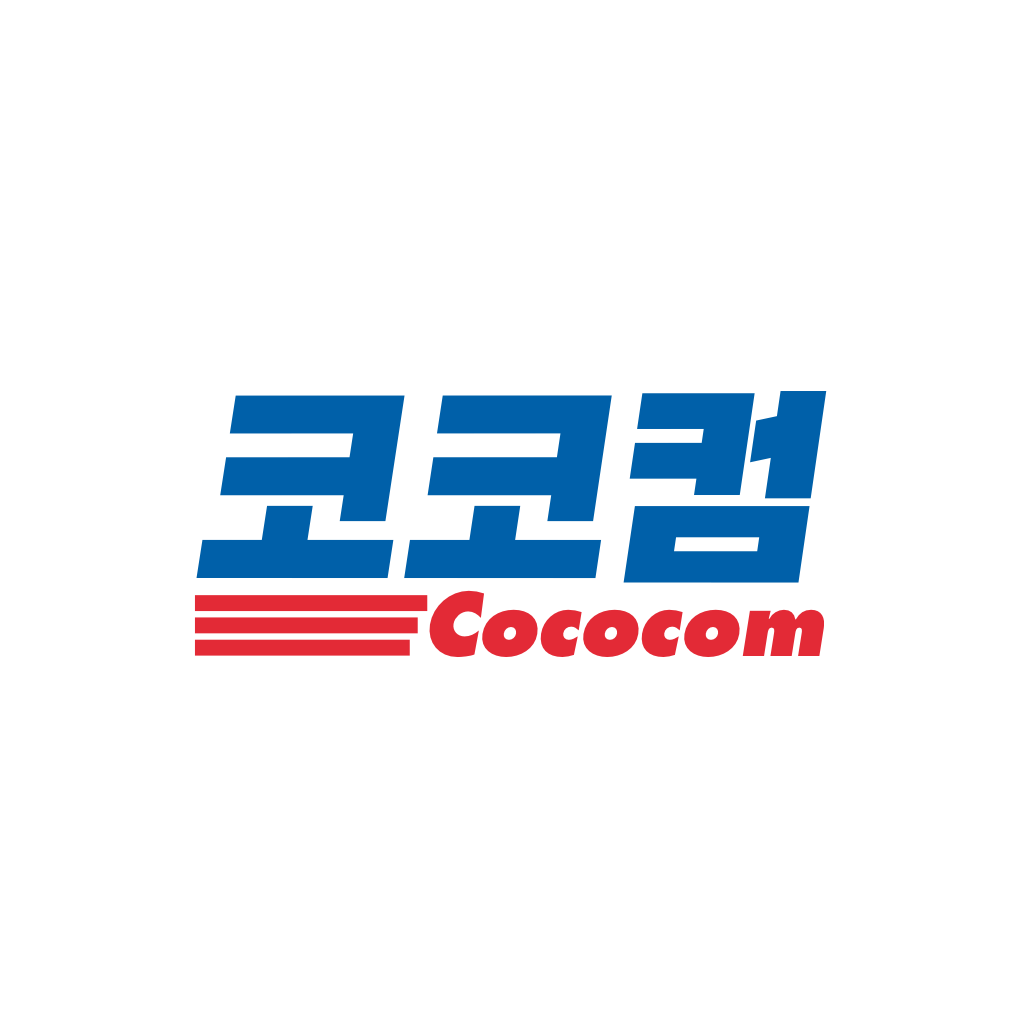
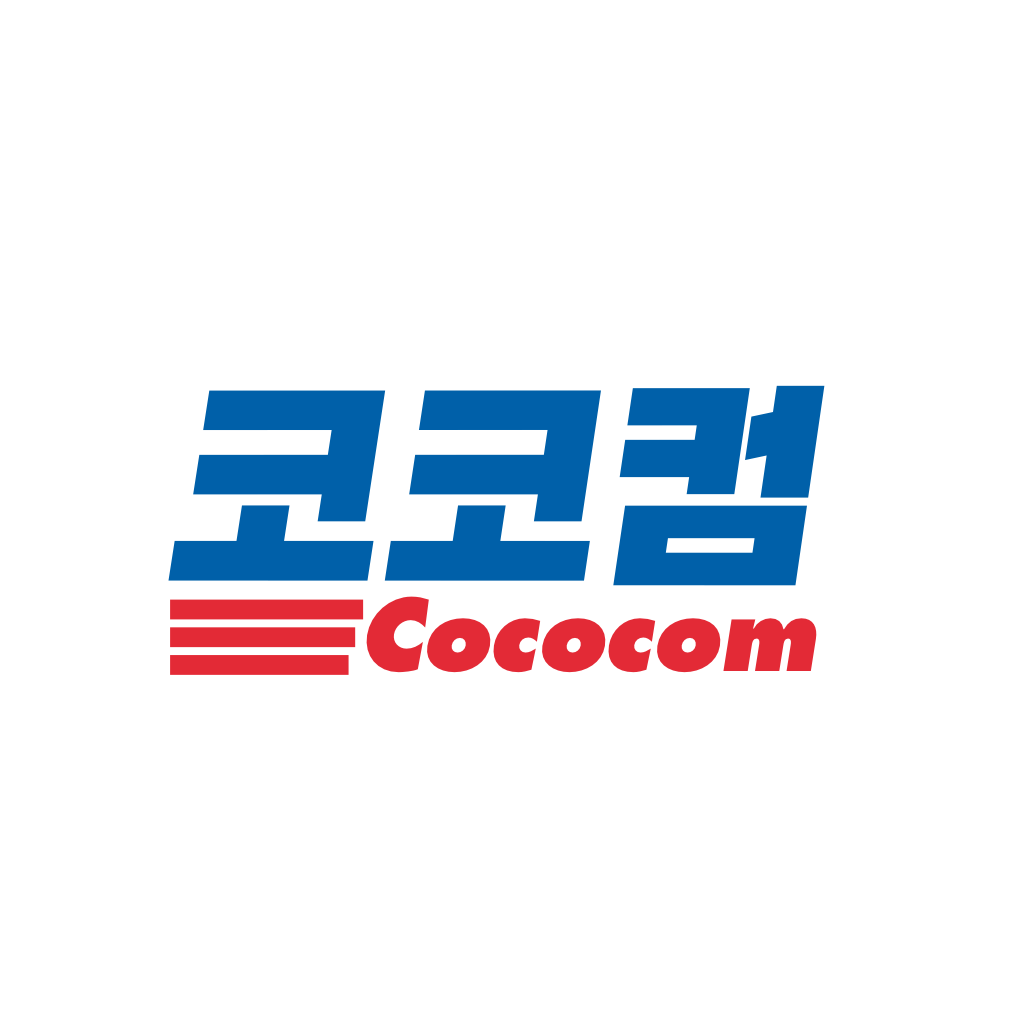
CDC-20 Add: splash-screen

Changed region(s): [[0.1562, 0.375, 0.8125, 0.6562], [0.6562, 0.4688, 0.6875, 0.5]]

diff --git a/apps/native/hooks/useSplashScreen.ts b/apps/native/hooks/useSplashScreen.ts
@@ -8,7 +8,7 @@ console.log('Preventing auto hide splash screen...');
 SplashScreen.preventAutoHideAsync();
 
 SplashScreen.setOptions({
-  // duration: 1000,
+  duration: 1000,
   fade: true,
 });
 
@@ -24,10 +24,8 @@ export function useSplashScreen() {
   useLayoutEffect(() => {
     if (appIsReady) {
       (async () => {
-        console.log('App is ready,wating for 12 seconds...');
-        await Util.wait(12000);
-        console.log('App is ready, hiding splash screen...');
-        await SplashScreen.hideAsync();
+        await Util.wait(5000);
+        SplashScreen.hide();
       })();
     }
   }, [appIsReady]);

diff --git a/apps/native/app.config.ts b/apps/native/app.config.ts
@@ -67,6 +67,18 @@ export default ({ config }: ConfigContext): ExpoConfig => {
           },
         },
       ],
+      [
+        'expo-splash-screen',
+        {
+          backgroundColor: '#FFFFFF',
+          image: './assets/images/splash-screen.png',
+          dark: {
+            image: './assets/images/splash-screen.png',
+            backgroundColor: '#000000',
+          },
+          imageWidth: 550,
+        },
+      ],
       '@react-native-google-signin/google-signin',
       'expo-apple-authentication',
       'expo-notifications',
